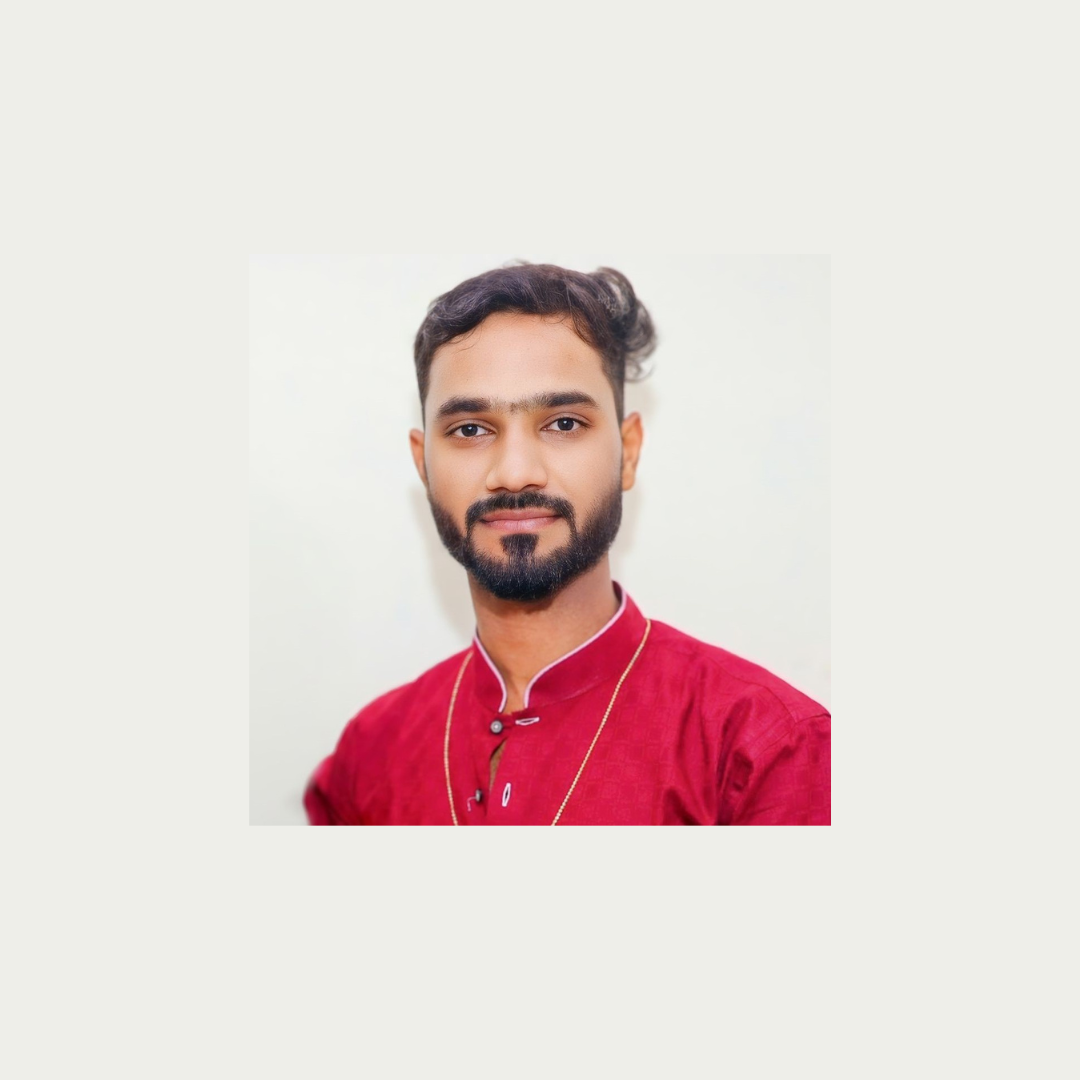
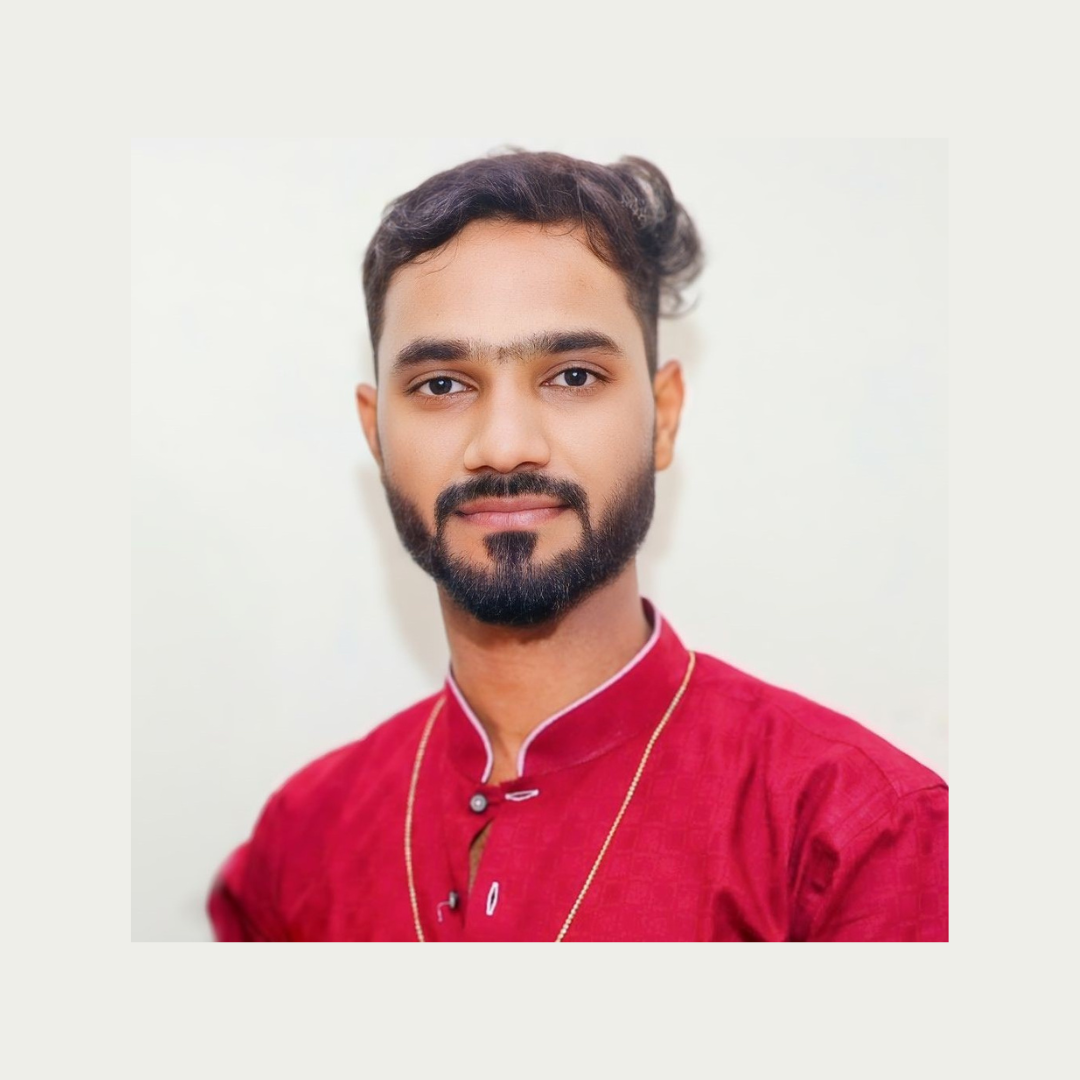
Updated

Changed region(s): [[0.1528, 0.1222, 0.8861, 0.8861]]

diff --git a/index.html b/index.html
@@ -91,7 +91,7 @@
                       165.547 130.807 187.559 100.226 186.353C69.6454 185.297 41.0228 161.023 21.7403 
                       129.362C2.45775 97.8511 -7.48481 59.1033 6.67581 34.5279C20.9871 10.1032 59.7028 
                      -0.149132 97.9666 0.00163737C136.23 0.303176 174.193 10.857 190.312 36.4879Z" />
-                <image class="home__blob-img" x="-79" y="-46" xlink:href="assets/img/Pro1.png" />
+                <image class="home__blob-img" x="-79" y="-46" xlink:href="assets/img/Pro.png" />
               </g>
             </svg>
           </div>
